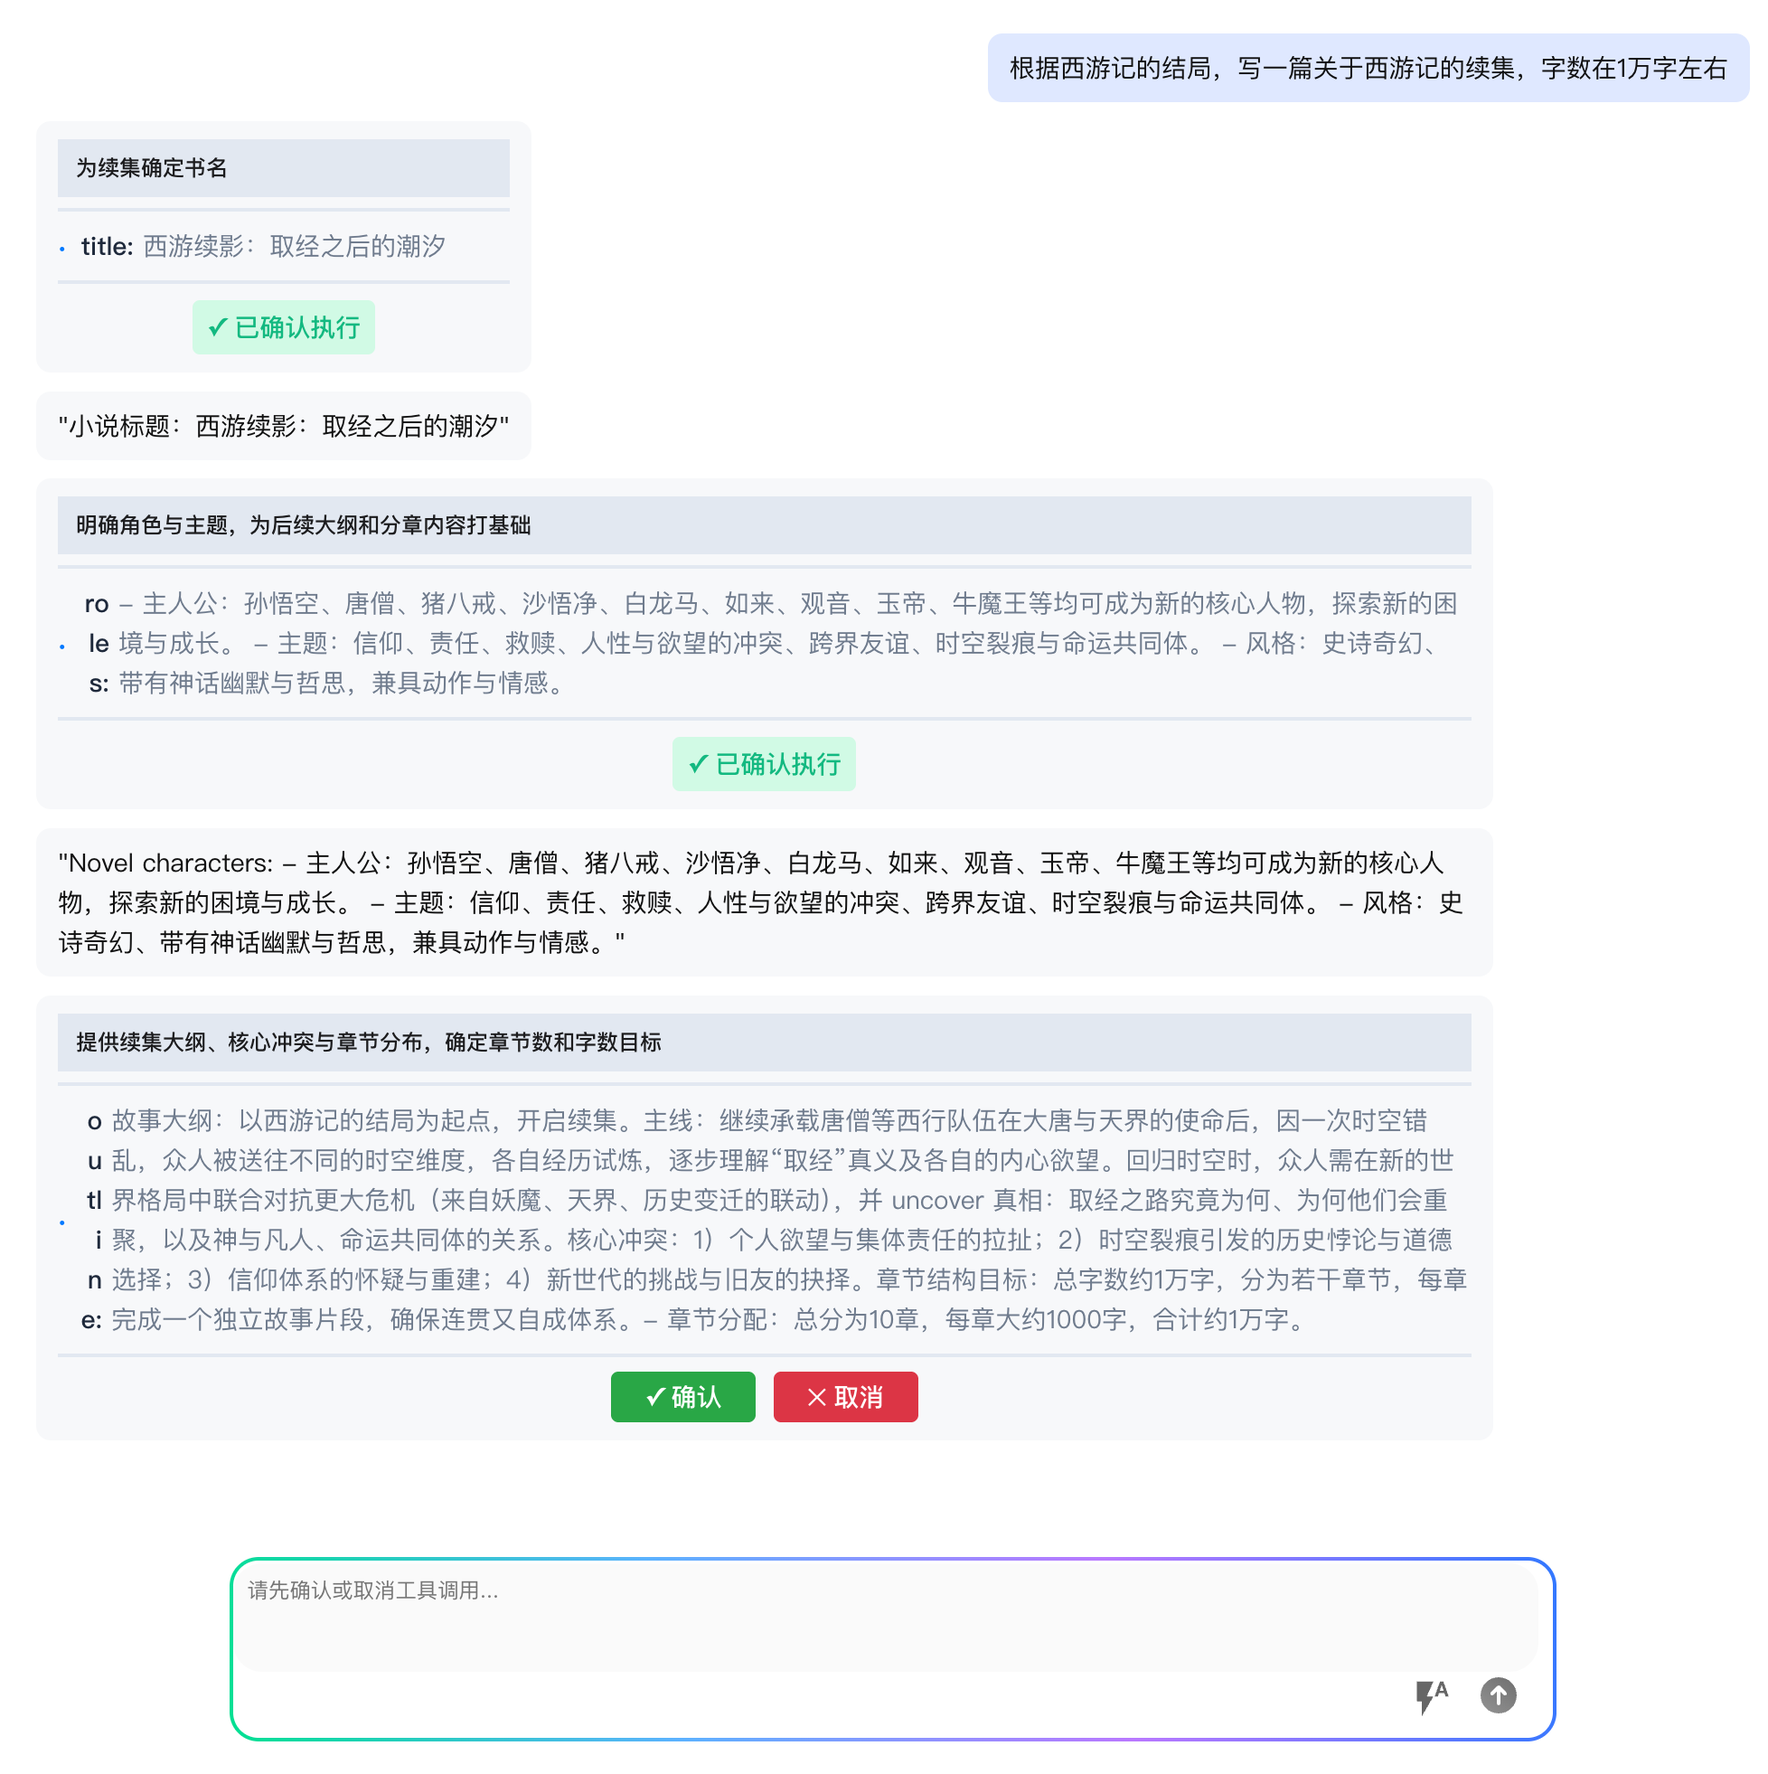
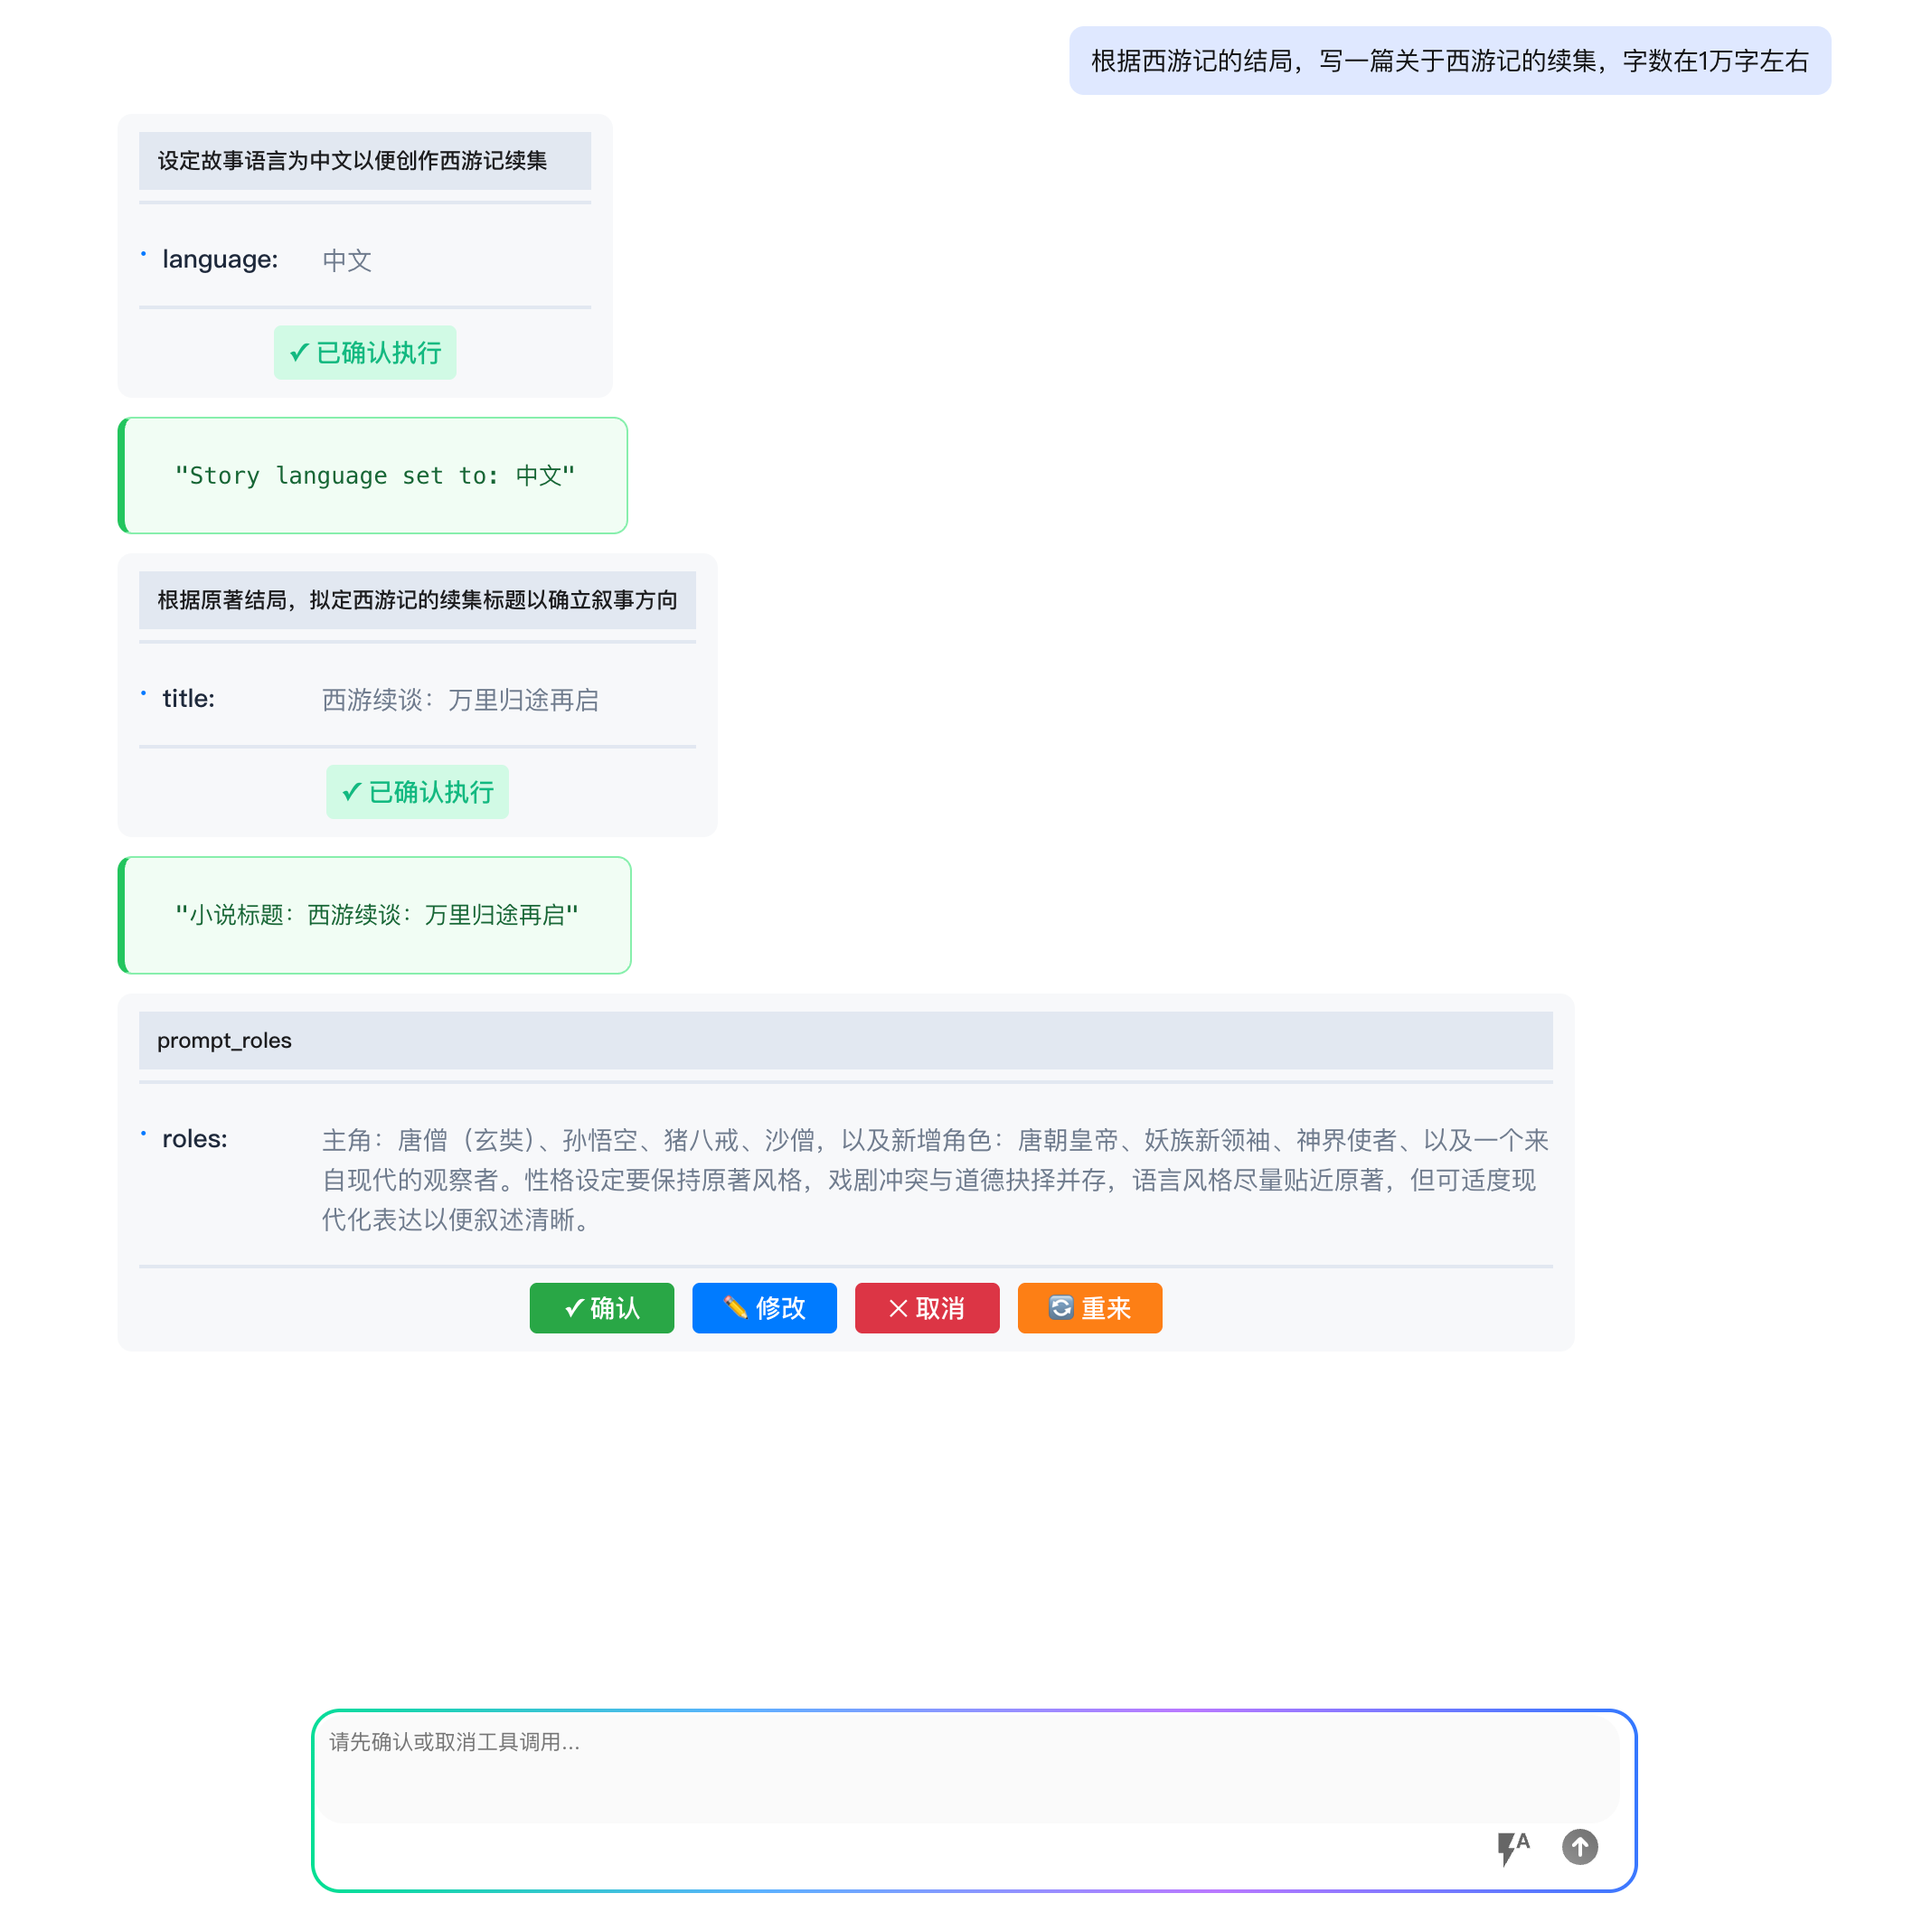
doc(readme): add tool type:

diff --git a/README.md b/README.md
@@ -13,7 +13,9 @@ The meaning of "Diy" is that this project serves only as a reference implementat
 [Story Example](https://raw.githubusercontent.com/neil-peng/DiyAgent/refs/heads/main/assets/%E9%BD%BF%E8%BD%AE%E4%B9%8B%E5%BF%83%EF%BC%9A%E6%9C%AA%E6%9D%A5%E7%9A%84%E4%BA%BA%E6%80%A7%E5%9B%9E%E5%93%8D.txt) - View the novel example file in the assets directory
 
 ![start](assets/show1.png)
-![tool confirm](assets/show2.png)
+![tool confirm1](assets/show2.png)
+![tool confirm2](assets/show3.png)
+
 
 
 ### Framework Introduction
@@ -28,7 +30,7 @@ Multi-agent: Simply calling the next agent within tools, expanding in a tree str
 
 - **data** - For streaming AI response content output
 - **tool_message** - Tool execution results
-- **tool_call** - Confirmation information before tool execution
+- **tool_call** - Confirmation information before tool execution (confirmation types include: confirm, cancel, edit confirmation, regenerate)
 
 ### Agent Components
 

diff --git a/README.cn.md b/README.cn.md
@@ -15,8 +15,8 @@ Diy的意思是这个项目仅仅作为一个参考实现一个最为简化的ag
 [小说示例](https://raw.githubusercontent.com/neil-peng/DiyAgent/refs/heads/main/assets/%E9%BD%BF%E8%BD%AE%E4%B9%8B%E5%BF%83%EF%BC%9A%E6%9C%AA%E6%9D%A5%E7%9A%84%E4%BA%BA%E6%80%A7%E5%9B%9E%E5%93%8D.txt) - 查看assets目录中的小说样例文件
 
 ![开场页](assets/show1.png)
-![工具交互页](assets/show2.png)
-
+![工具交互页1](assets/show2.png)
+![工具交互页2](assets/show3.png)
 
 ### 框架介绍
 
@@ -30,7 +30,8 @@ multi-agent： 工具中再次调用下一个agent而已，树状展开
 
 - **data** - 用于流式输出AI响应内容
 - **tool_message** - 工具调用执行结果
-- **tool_call** - 工具调用前的确认信息
+- **tool_call** - 工具调用前的确认信息(确认类型包括：确认， 取消， 编辑确认， 重新生成)
+
 
 
 
